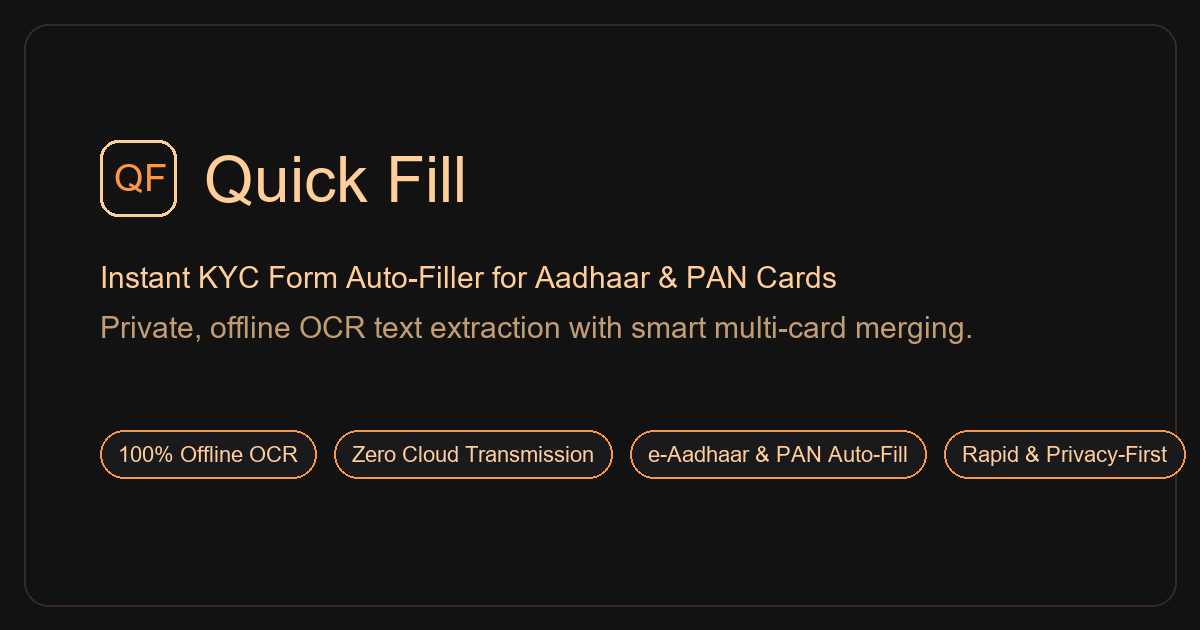
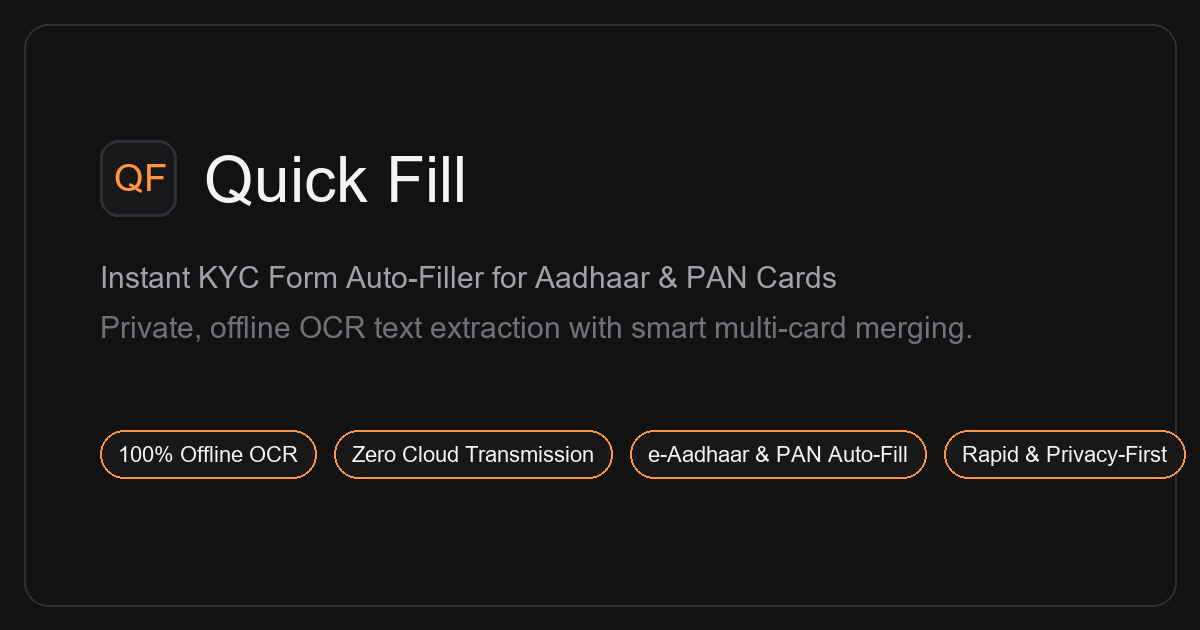
Refine palette: uncolored neutral words in dark mode, grounded warm canvas in light mode

diff --git a/frontend/styles.css b/frontend/styles.css
@@ -1,8 +1,8 @@
 /* ==========================================================================
    Quick Fill (QF) - Design System
-   Strict 3-Color Warm Palette:
-   - Dark Mode: #121212 (Dark Base), #FFCE99 (Peach Text), #FF9644 (Warm Orange)
-   - Light Mode: #FFFDF1 (Warm Cream Base), #FFCE99 (Peach Border), #FF9644 (Warm Orange)
+   Warm Aesthetic:
+   - Dark Mode: #121212 Base, Clean Neutral Words (#F4F4F5), Warm Orange Accent (#FF9644)
+   - Light Mode: #F5EBE1 Grounded Warm Canvas, #FFFDF1 Ivory Surfaces, #FF9644 Accent
    - Typography: Geist & Geist Mono by Vercel
    ========================================================================== */
 
@@ -10,19 +10,19 @@
    1. Theme Variables
    -------------------------------------------------------------------------- */
 :root, body.dark-theme {
-  /* Strict 3 Colors: #121212 (Dark Base), #FFCE99 (Peach Text), #FF9644 (Warm Orange) */
+  /* Dark Theme: Neutral Uncolored Words with Warm Accent */
   --bg-base: #121212;
   --bg-surface: #18181b;
-  --bg-subtle: #222226;
-  --border: rgba(255, 206, 153, 0.16);
+  --bg-subtle: #242429;
+  --border: #2e2e34;
   --border-hover: #FF9644;
 
-  /* Typography (Color 2: #FFCE99) */
-  --text-primary: #FFCE99;
-  --text-secondary: rgba(255, 206, 153, 0.72);
-  --text-muted: rgba(255, 206, 153, 0.45);
+  /* Typography: Clean, Uncolored Neutral Text */
+  --text-primary: #f4f4f5;
+  --text-secondary: #a1a1aa;
+  --text-muted: #71717a;
 
-  /* Accent / Interactive (Color 3: #FF9644) */
+  /* Accent / Interactive (#FF9644) */
   --accent: #FF9644;
   --accent-hover: #ffa866;
   --accent-subtle: rgba(255, 150, 68, 0.12);
@@ -41,17 +41,17 @@
 }
 
 body.light-theme {
-  /* Strict 3 Colors: #FFFDF1 (Cream Base), #FFCE99 (Peach Border), #FF9644 (Warm Orange) */
-  --bg-base: #FFFDF1;
-  --bg-surface: #ffffff;
-  --bg-subtle: rgba(255, 206, 153, 0.2);
-  --border: #FFCE99;
+  /* Light Theme: Grounded Warm Linen Canvas (Comfortable, Not Blinding White) */
+  --bg-base: #f5ebe1;
+  --bg-surface: #FFFDF1;
+  --bg-subtle: #ece0d2;
+  --border: #dfb282;
   --border-hover: #FF9644;
 
-  /* Typography */
-  --text-primary: #1c1815;
-  --text-secondary: #574030;
-  --text-muted: #886c58;
+  /* Typography: Crisp Neutral Dark Text */
+  --text-primary: #18181b;
+  --text-secondary: #52525b;
+  --text-muted: #71717a;
 
   /* Accent / Interactive */
   --accent: #FF9644;
@@ -163,7 +163,7 @@ body.light-theme .brand-logo {
 }
 
 body.light-theme .engine-badge {
-  background-color: #e1f0fc;
+  background-color: var(--bg-subtle);
   color: var(--text-secondary);
   border-color: var(--border);
 }

diff --git a/README.md b/README.md
@@ -12,9 +12,9 @@ A fast, offline identity document parser and KYC form auto-filler for Indian ID 
 - **Smart Merge Confirmation**: Interactive comparison modal with side-by-side diff preview allowing users to selectively merge or replace applicant fields when scanning supplementary cards.
 - **Modern Design System**:
   - **Typography**: Precision typography powered by **Geist & Geist Mono** by Vercel.
-  - **Strict 3-Color Warm Palette**:
-    - **Dark Mode**: `#121212` (Dark base, replacing white), `#FFCE99` (Warm peach text & subtle borders), `#FF9644` (Warm orange interactive highlights).
-    - **Light Mode**: `#FFFDF1` (Warm ivory cream canvas), `#FFCE99` (Peach borders), `#FF9644` (Warm orange interactive).
+  - **Balanced Warm Palette**:
+    - **Dark Mode**: `#121212` dark base canvas, clean uncolored neutral typography (`#F4F4F5` / `#A1A1AA`), and `#FF9644` warm orange interactive highlights.
+    - **Light Mode**: `#F5EBE1` grounded warm linen canvas (comfortable, non-glare), `#FFFDF1` ivory card surfaces, `#DFB282` borders, and `#FF9644` warm orange interactive highlights.
   - **Minimalist Branding**: Clean typography-first header, monochrome border logo with accents removed, active OCR engine badge inside the Info dialog, and balanced 2x2 quick test sample grid.
 - **Multiple Input Methods**: Supports direct file drag-and-drop, clipboard image paste (Ctrl+V / Paste button), and live camera stream capture.
 - **Data Export**: Export structured form data directly as JSON or copy to clipboard.
